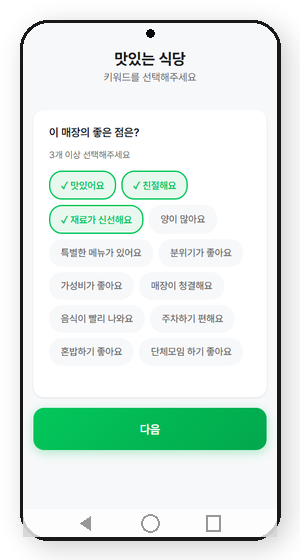
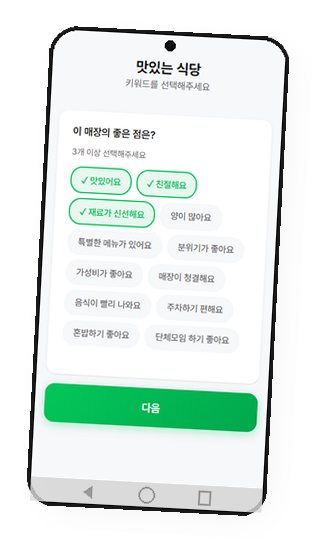
3D 폰 목업 업그레이드: 기울임, 그림자, 누끼 처리

diff --git a/receipt-review.html b/receipt-review.html
@@ -165,6 +165,11 @@ nav a.active { color: var(--primary); font-weight: 600; }
   max-width: 100%;
   border-radius: 12px;
 }
+.hero-phone-3d {
+  max-width: 380px;
+  width: 100%;
+  filter: drop-shadow(0 25px 50px rgba(0,0,0,0.2));
+}
 .phone-mockup {
   width: 280px;
   height: 560px;
@@ -517,18 +522,7 @@ footer a {
       </div>
     </div>
     <div class="hero-visual">
-      <div class="phone-mockup">
-        <div class="phone-screen">
-          <div class="phone-header">
-            <h3>모아정육식당</h3>
-            <p>리뷰 작성 시 음료 1잔 서비스</p>
-          </div>
-          <div class="phone-content">
-            <img src="receipt-sample.png" alt="영수증 이미지" style="width:100%; border-radius:8px; border:1px solid #eee;">
-            <div class="phone-btn">영수증 저장 + 네이버로 이동</div>
-          </div>
-        </div>
-      </div>
+      <img src="hero-phone.png" alt="영수증리뷰 화면" class="hero-phone-3d">
     </div>
   </div>
 </section>
